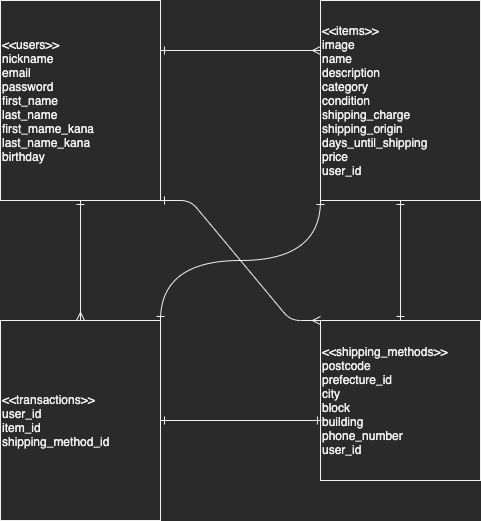
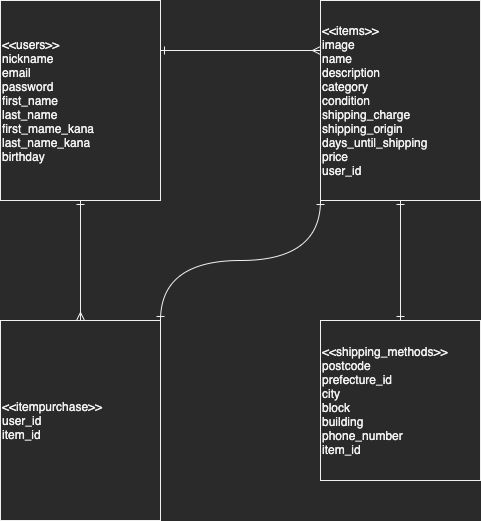
テーブル設計_sub8

diff --git a/README.md b/README.md
@@ -17,7 +17,6 @@
 
 ### Association
 - has_many :items
-- has_many :shipping_methods
 - has_many :transactions
 
 ## itemsテーブル
@@ -44,28 +43,24 @@
 
 | Column | Type | Options |
 |  ---  |  ---  |  ---  |
-| postcode | integer | null: false |
+| postcode | string | null: false |
 | prefecture_id | integer | null: false |
 | city | string | null: false |
 | block | string | null: false |
 | building | string | --- |
-| phone_number | integer | null: false |
-| user | references | null: false, foreign_key: true|
+| phone_number | string | null: false |
+| item | references | null: false, foreign_key: true|
 
 ### Association
-- belongs_to :user
 - belongs_to :item
-- belongs_to :transaction
 
-## transactionsテーブル
+## item_purchasesテーブル
 
 | Column | Type | Options |
 |  ---  |  ---  |  ---  |
 | user | references | null: false, foreign_key: true|
 | item | references | null: false, foreign_key: true|
-| shipping_method | references | null: false, foreign_key: true|
 
 ### Association
 - belongs_to :user
 - belongs_to :item
-- has_one :shipping_method
